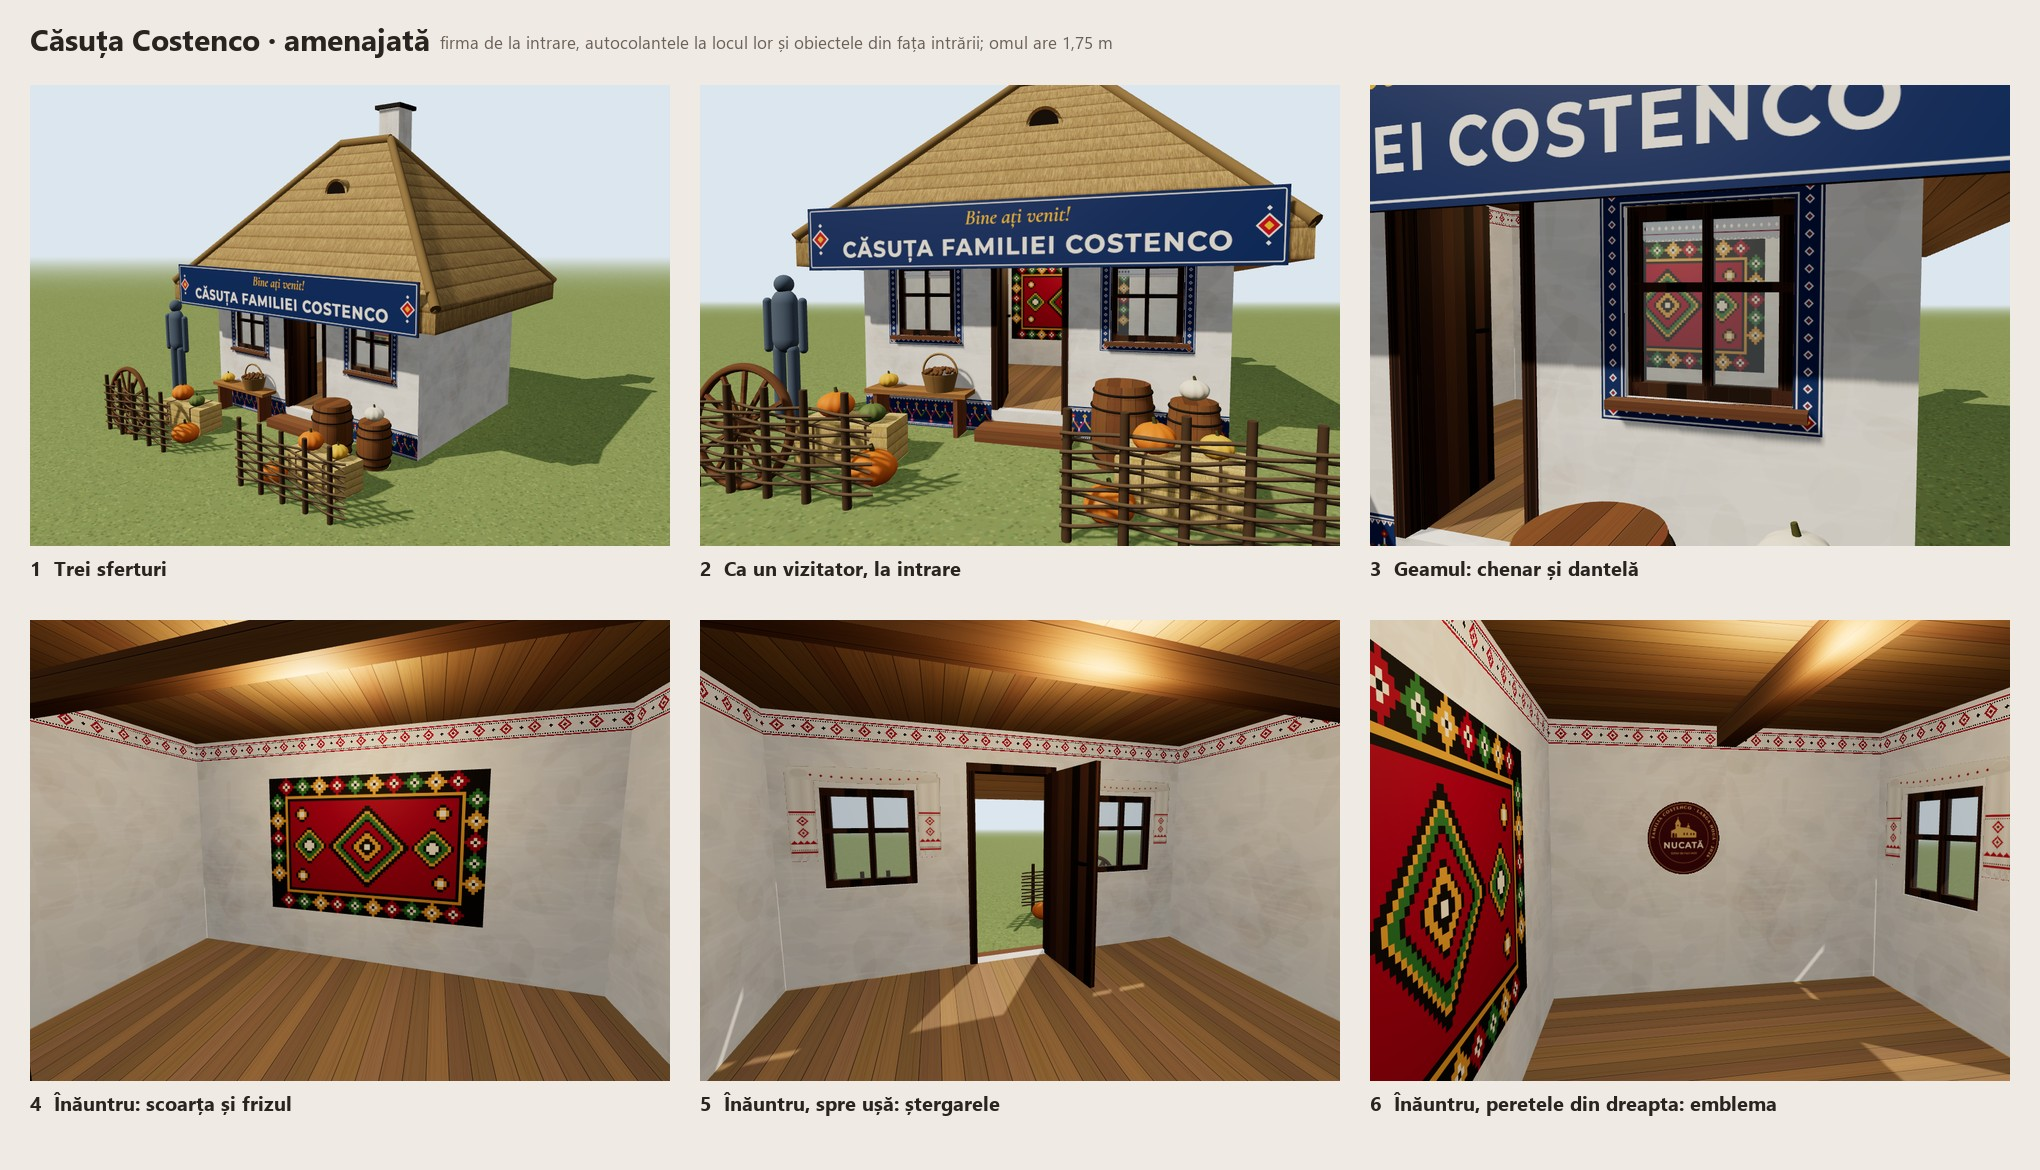
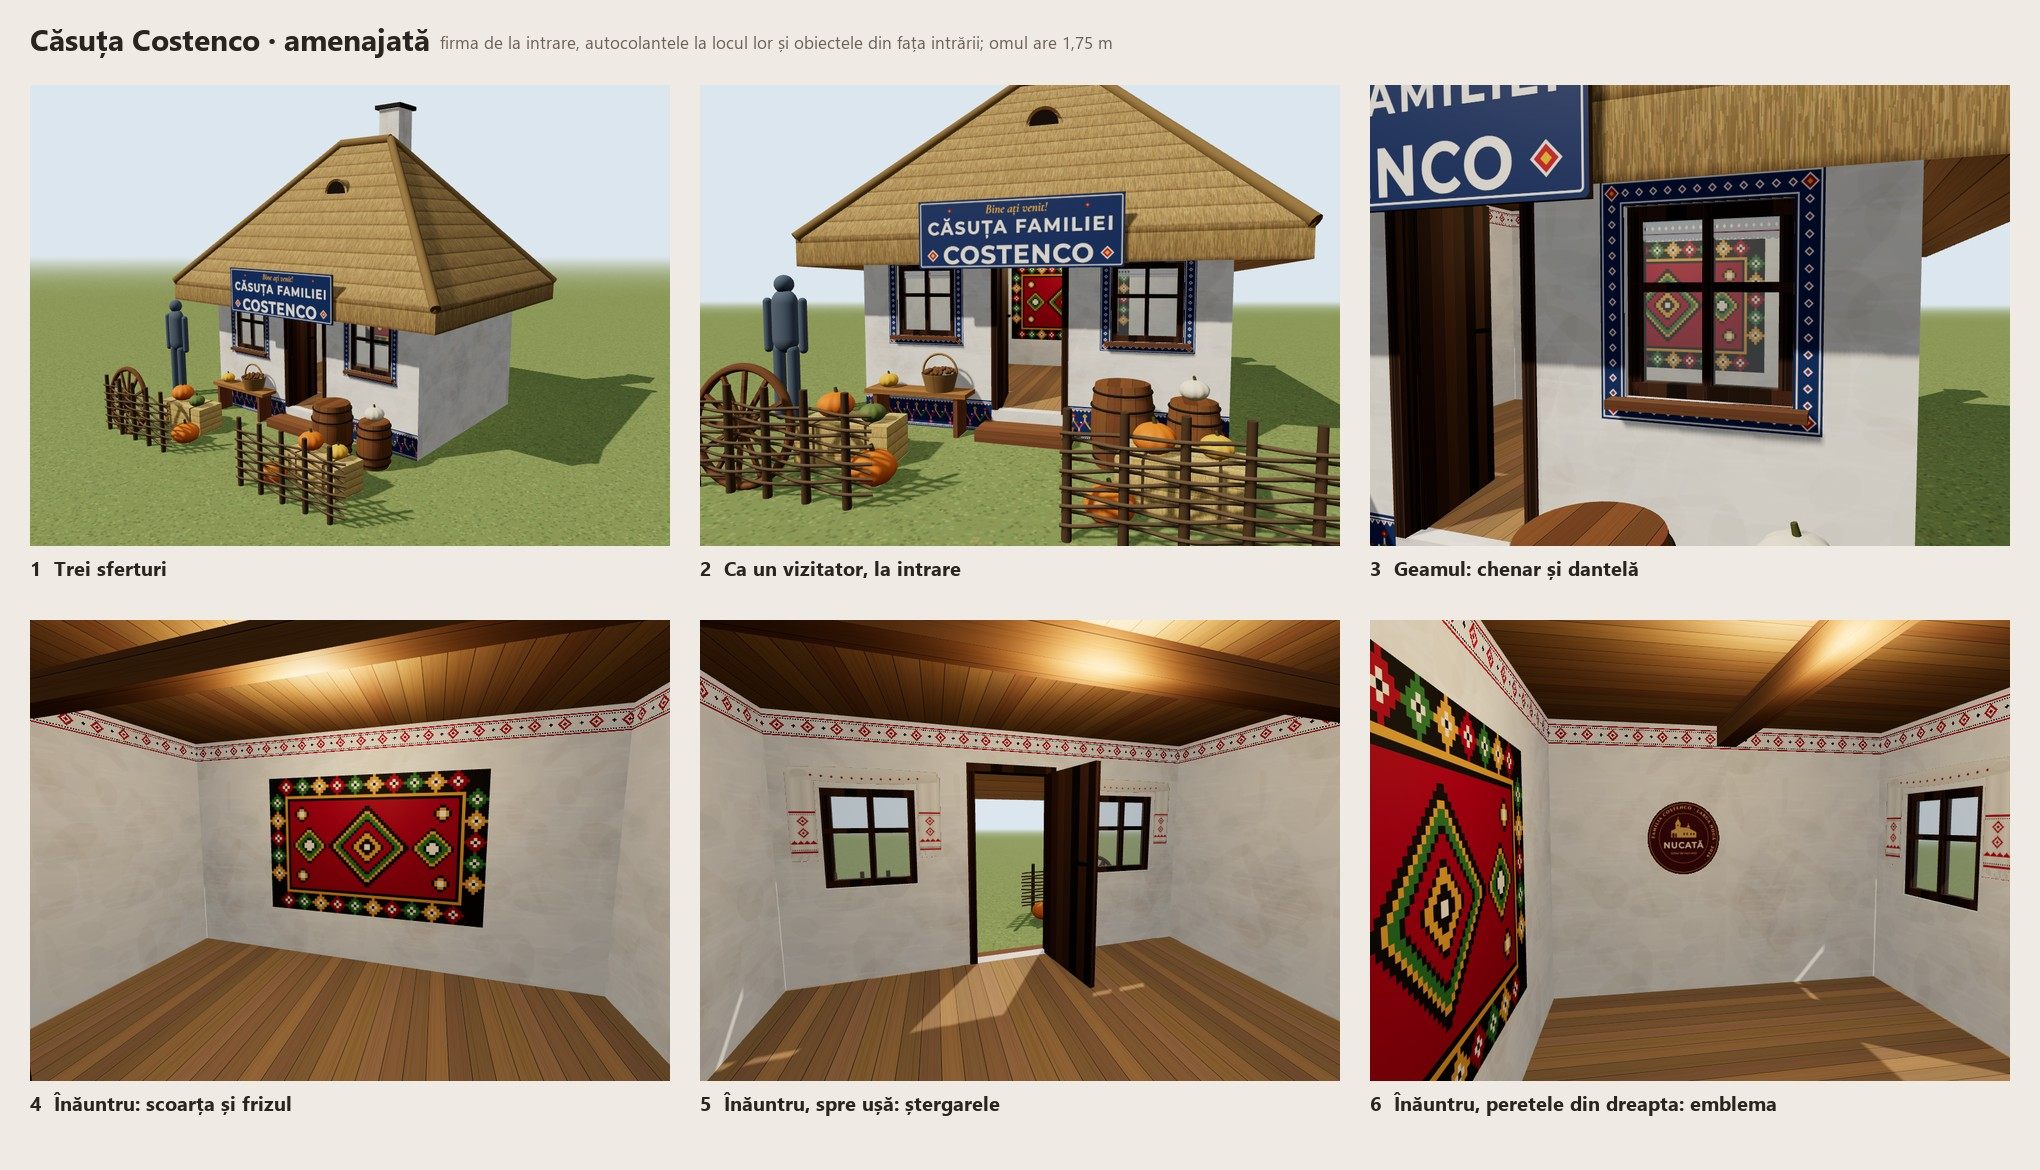
Firma de 2 m, cu literele mari
Firma are acum 2000 × 660 mm, cerută de Vladimir „în total 2 metri”, cu
literele mari: „Bine ați venit!” sus, „CĂSUȚA FAMILIEI” și „COSTENCO”
pe rânduri separate, numele de familie cel mai mare (circa 17 cm).

diff --git a/index.html b/index.html
@@ -46,8 +46,8 @@
     <div class="card lat">
       <div class="fond"><a href="firma.png" target="_blank"><img src="firma.png" alt="Firma albastră: Bine ați venit! Căsuța familiei Costenco"></a></div>
       <h3>Firma „Căsuța familiei Costenco”</h3>
-      <p><b>4600 × 650 mm, 1 bucată</b>, pe marginea streșinii, deasupra ușii (peretele de deasupra ușii stă sub stuf și nu se vede). Literele mari au circa 16 cm; deasupra, „Bine ați venit!”. Se prinde de la streașină în sus, ca pe sub ea să se treacă liber spre ușă. Banner sau placă.</p>
-      <a class="fisier" href="tipar/firma-intrare-4600x650.svg" download>Fișierul de tipar (SVG)</a>
+      <p><b>2000 × 660 mm, 1 bucată</b>, pe marginea streșinii, deasupra ușii (peretele de deasupra ușii stă sub stuf și nu se vede). Literele: „COSTENCO” circa 17 cm, „CĂSUȚA FAMILIEI” circa 12 cm, „Bine ați venit!” circa 7 cm. Se prinde de la streașină în sus, ca pe sub ea să se treacă liber spre ușă. Banner sau placă.</p>
+      <a class="fisier" href="tipar/firma-intrare-2000x660.svg" download>Fișierul de tipar (SVG)</a>
     </div>
   </div>
 
